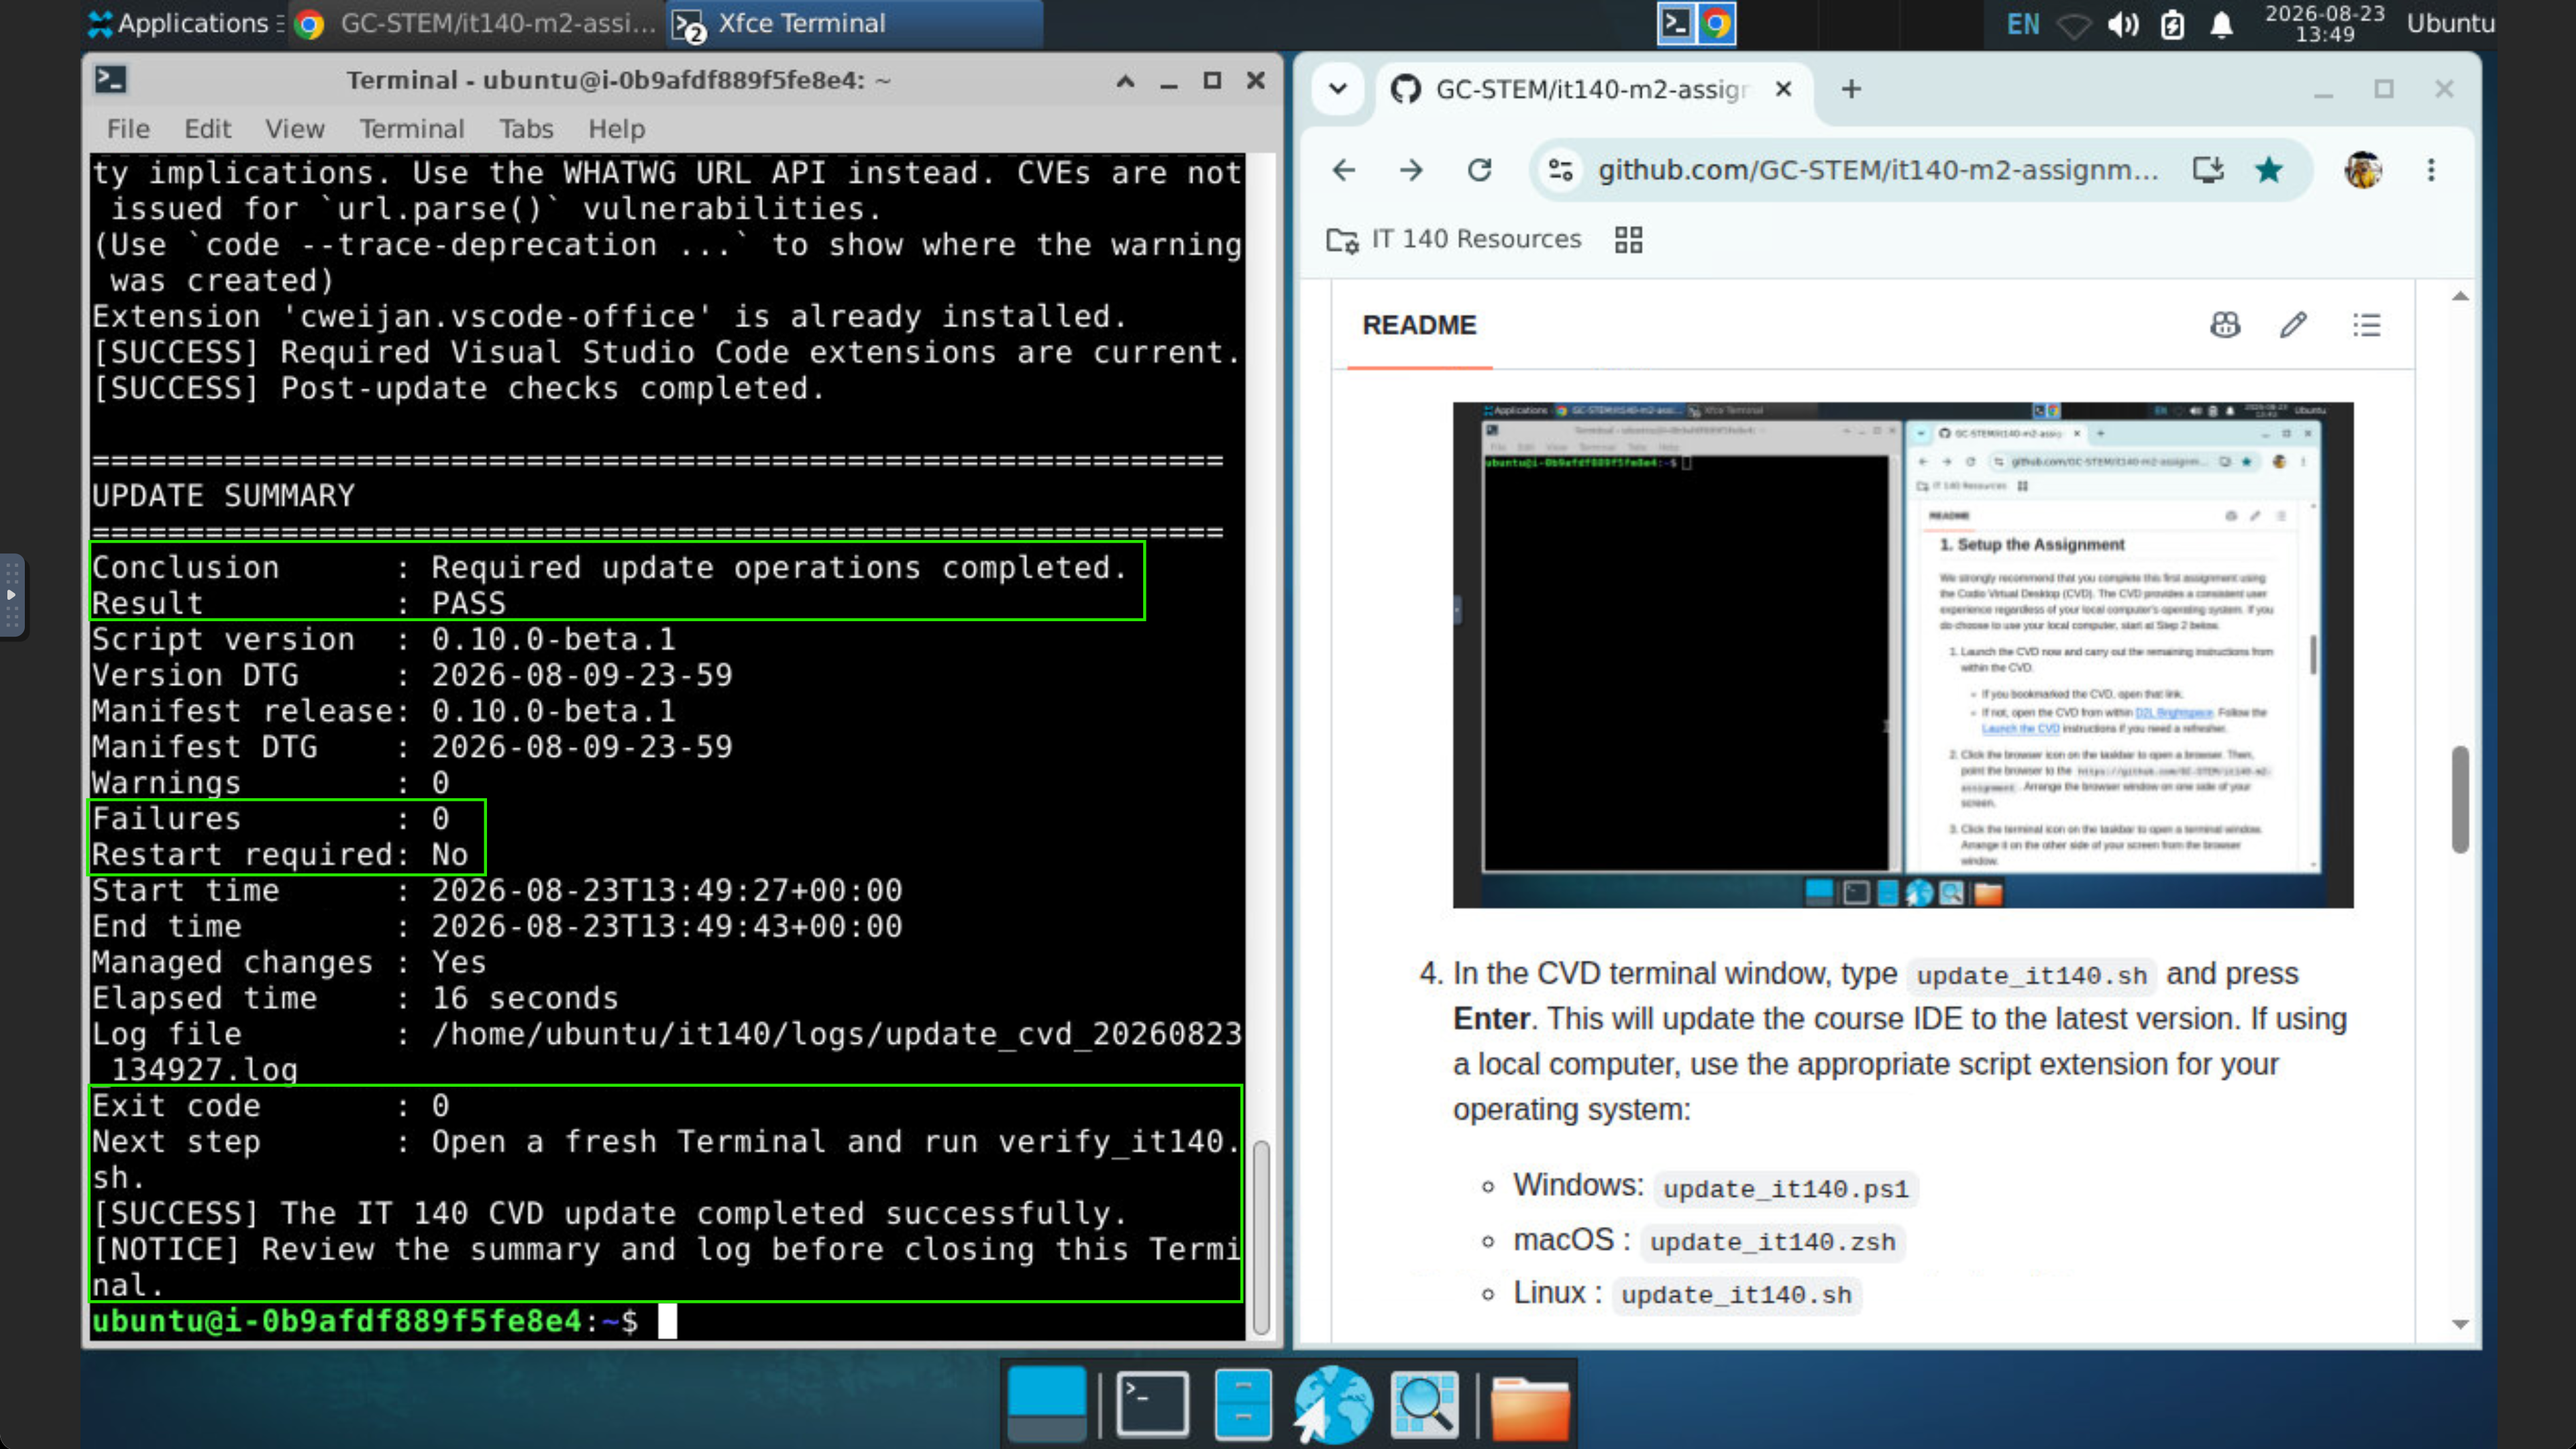
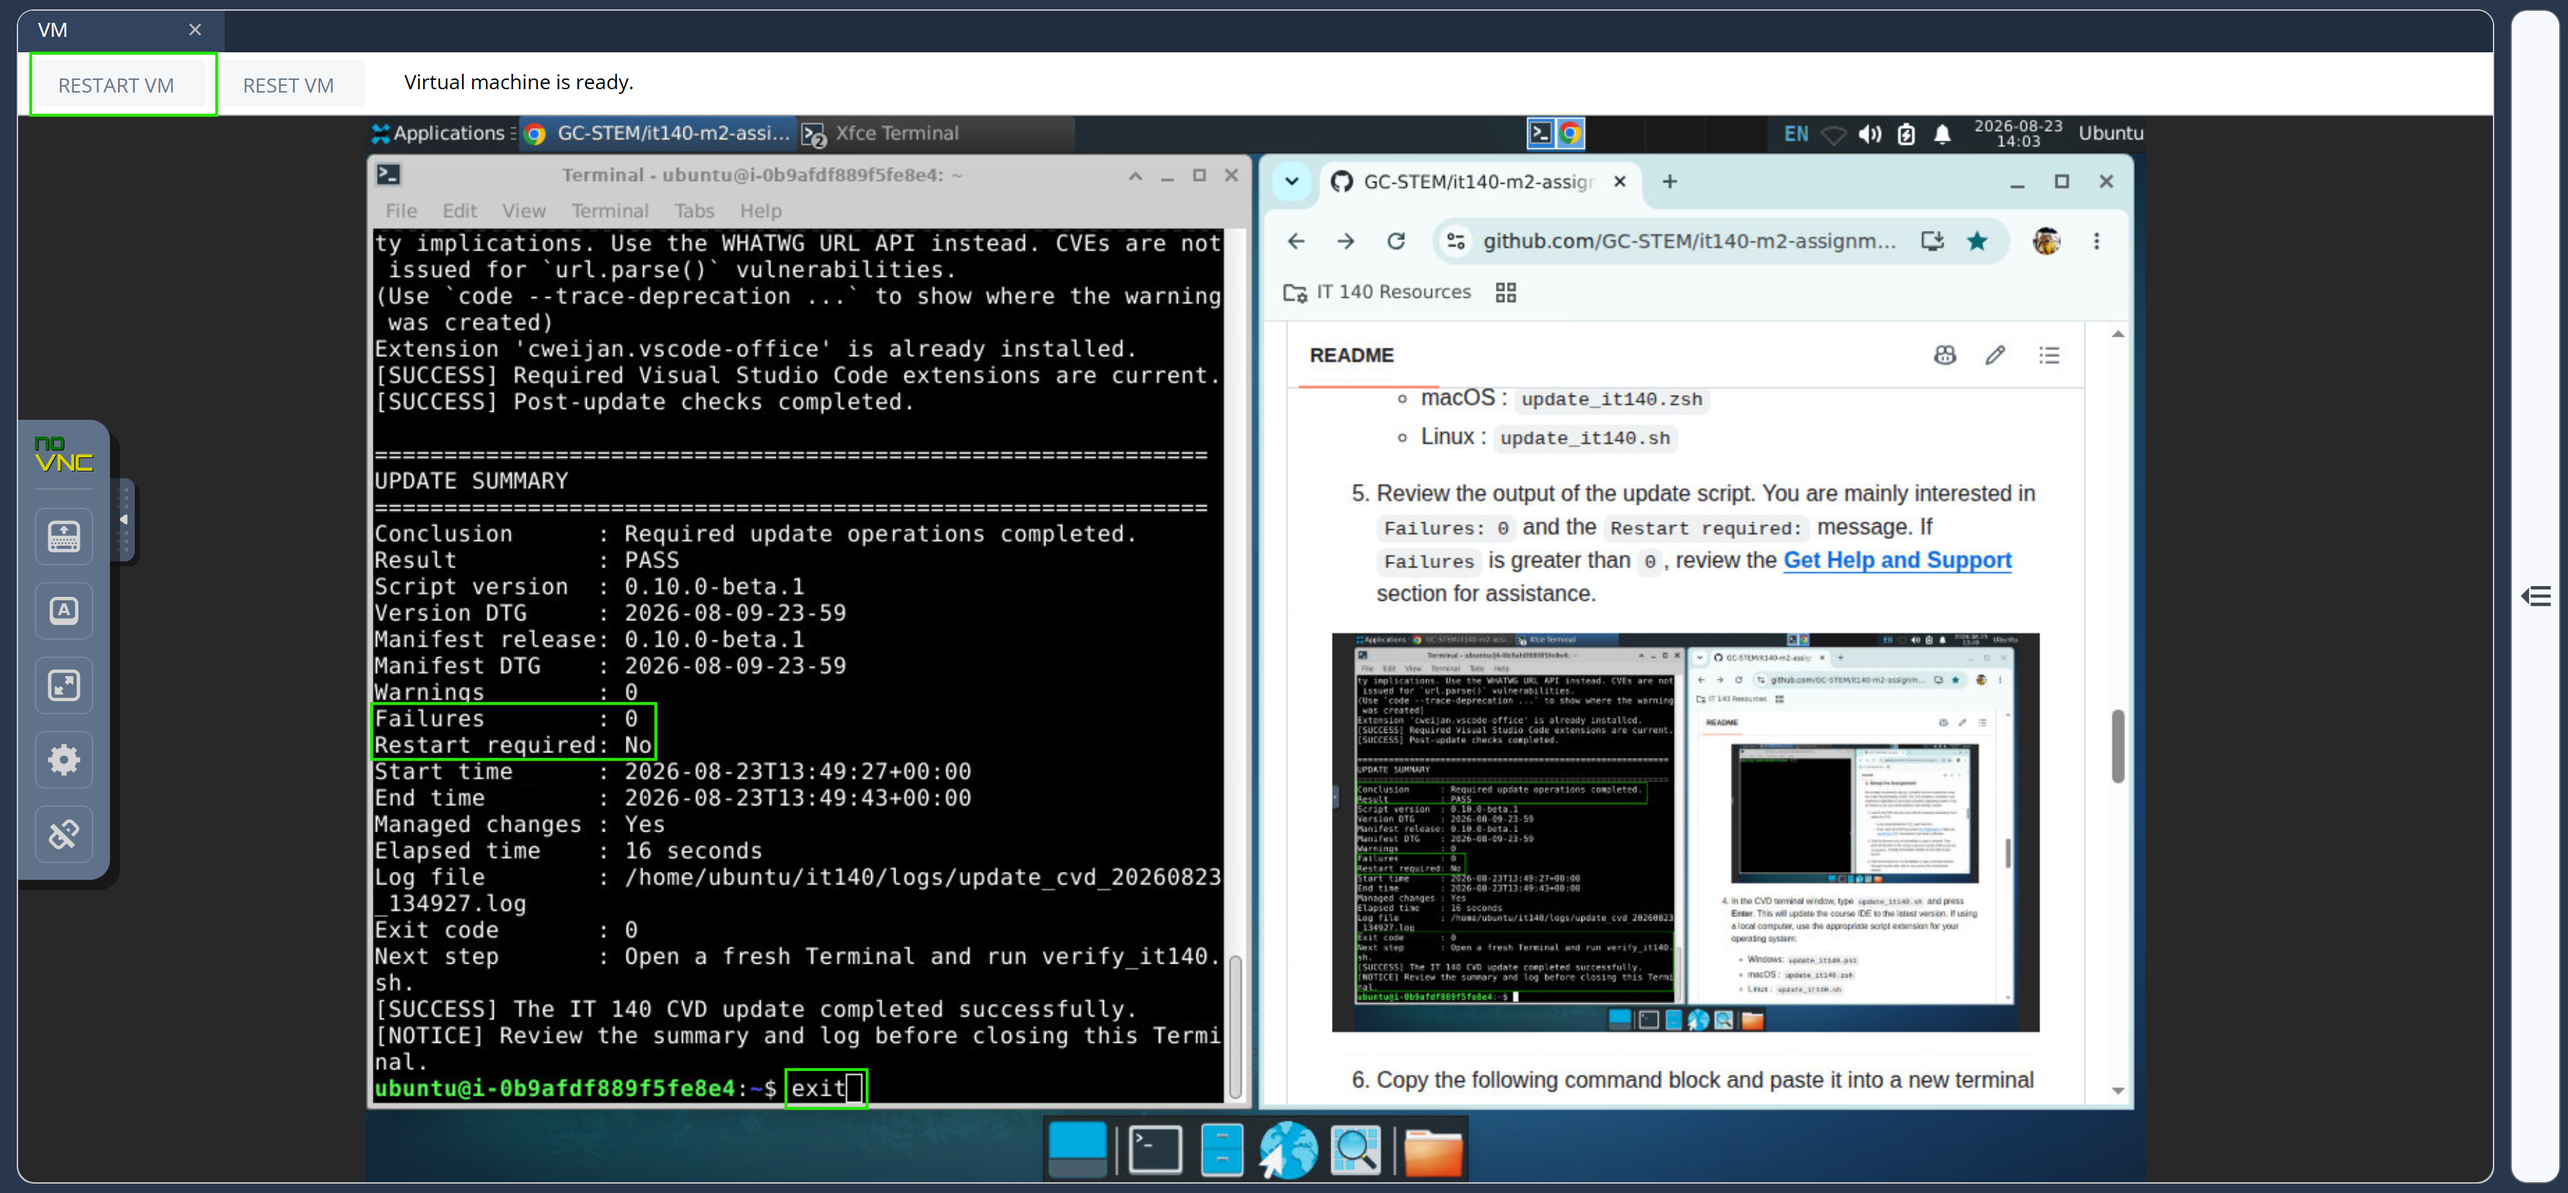
Update README to enhance clarity in update script instructions and add split screen image

diff --git a/README.md b/README.md
@@ -46,11 +46,16 @@ We strongly recommend that you complete this first assignment using the Codio Vi
    - macOS  : `update_it140.zsh`
    - Linux  : `update_it140.sh`
 
-5. Review the output of the update script. You are mainly interested in `Failures: 0` and the `Restart required:` message. If `Failures` is greater than `0`, review the [**Get Help and Support**](#5-get-help-and-support) section for assistance.
+5. Review the output of the update script. You are mainly interested in `Failures: 0` and the `Restart required:` message.
+   - If `Failures` is greater than `0`, review the [**Get Help and Support**](#5-get-help-and-support) section.
+   - If `Restart required: No`, type `exit` and press **Enter** to close the terminal window.
+   - If `Restart required: Yes`, click the **RESTART VM** button on the Codio taskbar. 
 
   ![Update summary in split screen](./.github/assets/15_split_screen_update_summary.png)
 
-6. Copy the following command block and paste it into a new terminal window. Press **Enter** to run.
+1. 
+
+2. Copy the following command block and paste it into a new terminal window. Press **Enter** to run.
 
     ```bash
     cd ~/Repos 
@@ -61,7 +66,7 @@ We strongly recommend that you complete this first assignment using the Codio Vi
     git remote -v
     ```
 
-7. Review the output of the last command. You should see two lines that look like this:
+3. Review the output of the last command. You should see two lines that look like this:
 
 ## 2. Complete Part A
 
